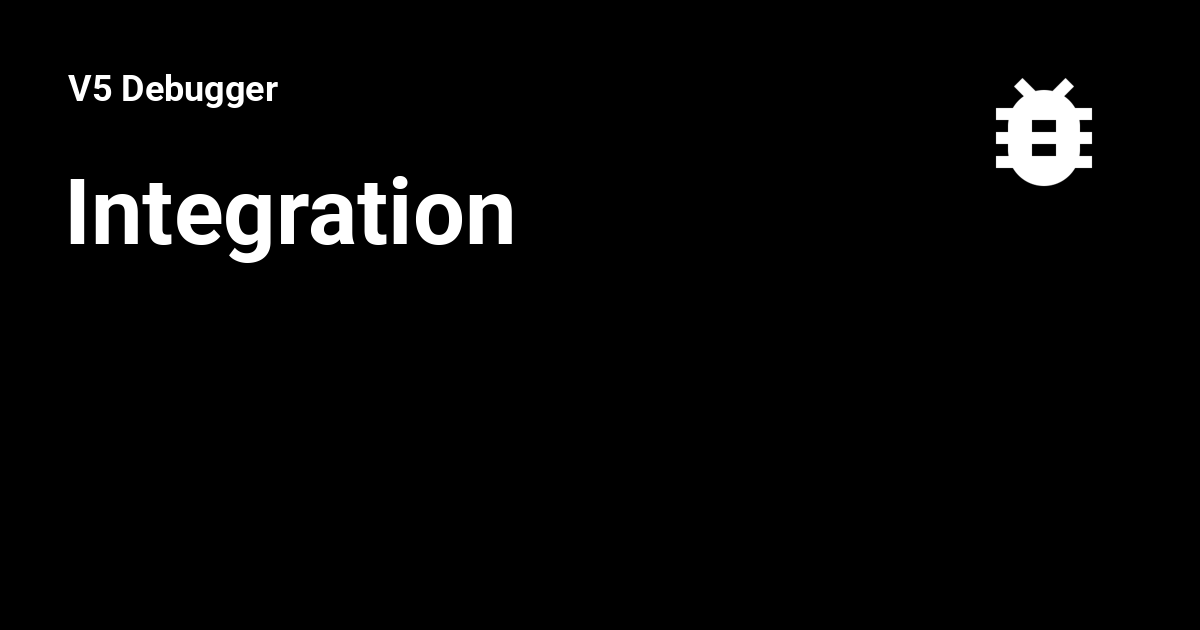
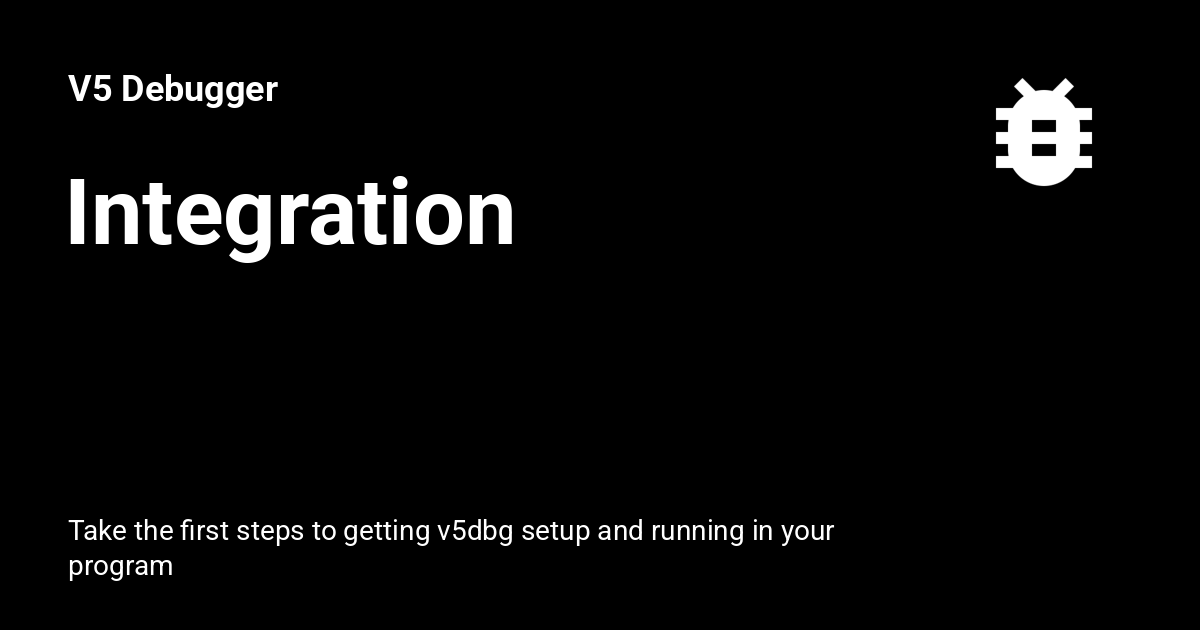
Deployed bf36ef0 with MkDocs version: 1.6.1

Changed region(s): [[0.0617, 0.8143, 0.7092, 0.9349]]

diff --git a/cpp/macros/debug/ntask/index.html b/cpp/macros/debug/ntask/index.html
@@ -6,6 +6,8 @@
       <meta charset="utf-8">
       <meta name="viewport" content="width=device-width,initial-scale=1">
       
+        <meta name="description" content="Documentation for the $ntask macro which is used to supervise the current task and allow for debugging functionality">
+      
       
       
         <link rel="canonical" href="https://v5dbg.beachmont.xyz/cpp/macros/debug/ntask/">
@@ -59,7 +61,7 @@
       
         <meta  property="og:title"  content="$ntask - V5 Debugger" >
       
-        <meta  property="og:description"  content="None" >
+        <meta  property="og:description"  content="Documentation for the $ntask macro which is used to supervise the current task and allow for debugging functionality" >
       
         <meta  property="og:image"  content="https://v5dbg.beachmont.xyz/assets/images/social/cpp/macros/debug/ntask.png" >
       
@@ -75,7 +77,7 @@
       
         <meta  name="twitter:title"  content="$ntask - V5 Debugger" >
       
-        <meta  name="twitter:description"  content="None" >
+        <meta  name="twitter:description"  content="Documentation for the $ntask macro which is used to supervise the current task and allow for debugging functionality" >
       
         <meta  name="twitter:image"  content="https://v5dbg.beachmont.xyz/assets/images/social/cpp/macros/debug/ntask.png" >
       

diff --git a/cpp/macros/debug/function/index.html b/cpp/macros/debug/function/index.html
@@ -6,6 +6,8 @@
       <meta charset="utf-8">
       <meta name="viewport" content="width=device-width,initial-scale=1">
       
+        <meta name="description" content="Documentation for the $function macro which is used to mark the entrance of functions">
+      
       
       
         <link rel="canonical" href="https://v5dbg.beachmont.xyz/cpp/macros/debug/function/">
@@ -59,7 +61,7 @@
       
         <meta  property="og:title"  content="$function - V5 Debugger" >
       
-        <meta  property="og:description"  content="None" >
+        <meta  property="og:description"  content="Documentation for the $function macro which is used to mark the entrance of functions" >
       
         <meta  property="og:image"  content="https://v5dbg.beachmont.xyz/assets/images/social/cpp/macros/debug/function.png" >
       
@@ -75,7 +77,7 @@
       
         <meta  name="twitter:title"  content="$function - V5 Debugger" >
       
-        <meta  name="twitter:description"  content="None" >
+        <meta  name="twitter:description"  content="Documentation for the $function macro which is used to mark the entrance of functions" >
       
         <meta  name="twitter:image"  content="https://v5dbg.beachmont.xyz/assets/images/social/cpp/macros/debug/function.png" >
       

diff --git a/getting_started/integration/index.html b/getting_started/integration/index.html
@@ -6,6 +6,8 @@
       <meta charset="utf-8">
       <meta name="viewport" content="width=device-width,initial-scale=1">
       
+        <meta name="description" content="Take the first steps to getting v5dbg setup and running in your program">
+      
       
       
         <link rel="canonical" href="https://v5dbg.beachmont.xyz/getting_started/integration/">
@@ -59,7 +61,7 @@
       
         <meta  property="og:title"  content="Integration - V5 Debugger" >
       
-        <meta  property="og:description"  content="None" >
+        <meta  property="og:description"  content="Take the first steps to getting v5dbg setup and running in your program" >
       
         <meta  property="og:image"  content="https://v5dbg.beachmont.xyz/assets/images/social/getting_started/integration.png" >
       
@@ -75,7 +77,7 @@
       
         <meta  name="twitter:title"  content="Integration - V5 Debugger" >
       
-        <meta  name="twitter:description"  content="None" >
+        <meta  name="twitter:description"  content="Take the first steps to getting v5dbg setup and running in your program" >
       
         <meta  name="twitter:image"  content="https://v5dbg.beachmont.xyz/assets/images/social/getting_started/integration.png" >
       

diff --git a/cpp/header_files/index.html b/cpp/header_files/index.html
@@ -6,6 +6,8 @@
       <meta charset="utf-8">
       <meta name="viewport" content="width=device-width,initial-scale=1">
       
+        <meta name="description" content="Reference for all of the header files in v5dbg and their usage">
+      
       
       
         <link rel="canonical" href="https://v5dbg.beachmont.xyz/cpp/header_files/">
@@ -59,7 +61,7 @@
       
         <meta  property="og:title"  content="Header files - V5 Debugger" >
       
-        <meta  property="og:description"  content="None" >
+        <meta  property="og:description"  content="Reference for all of the header files in v5dbg and their usage" >
       
         <meta  property="og:image"  content="https://v5dbg.beachmont.xyz/assets/images/social/cpp/header_files.png" >
       
@@ -75,7 +77,7 @@
       
         <meta  name="twitter:title"  content="Header files - V5 Debugger" >
       
-        <meta  name="twitter:description"  content="None" >
+        <meta  name="twitter:description"  content="Reference for all of the header files in v5dbg and their usage" >
       
         <meta  name="twitter:image"  content="https://v5dbg.beachmont.xyz/assets/images/social/cpp/header_files.png" >
       

diff --git a/protocol/v1/index.html b/protocol/v1/index.html
@@ -6,6 +6,8 @@
       <meta charset="utf-8">
       <meta name="viewport" content="width=device-width,initial-scale=1">
       
+        <meta name="description" content="Spec document for version 1 of the v5dbg debug server protocol">
+      
       
       
         <link rel="canonical" href="https://v5dbg.beachmont.xyz/protocol/v1/">
@@ -57,7 +59,7 @@
       
         <meta  property="og:title"  content="V1 (Current) - V5 Debugger" >
       
-        <meta  property="og:description"  content="None" >
+        <meta  property="og:description"  content="Spec document for version 1 of the v5dbg debug server protocol" >
       
         <meta  property="og:image"  content="https://v5dbg.beachmont.xyz/assets/images/social/protocol/v1.png" >
       
@@ -73,7 +75,7 @@
       
         <meta  name="twitter:title"  content="V1 (Current) - V5 Debugger" >
       
-        <meta  name="twitter:description"  content="None" >
+        <meta  name="twitter:description"  content="Spec document for version 1 of the v5dbg debug server protocol" >
       
         <meta  name="twitter:image"  content="https://v5dbg.beachmont.xyz/assets/images/social/protocol/v1.png" >
       

diff --git a/install/server/index.html b/install/server/index.html
@@ -6,6 +6,8 @@
       <meta charset="utf-8">
       <meta name="viewport" content="width=device-width,initial-scale=1">
       
+        <meta name="description" content="Install the v5dbg debug server into your PROs project">
+      
       
       
         <link rel="canonical" href="https://v5dbg.beachmont.xyz/install/server/">
@@ -59,7 +61,7 @@
       
         <meta  property="og:title"  content="Installation - V5 Debugger" >
       
-        <meta  property="og:description"  content="None" >
+        <meta  property="og:description"  content="Install the v5dbg debug server into your PROs project" >
       
         <meta  property="og:image"  content="https://v5dbg.beachmont.xyz/assets/images/social/install/server.png" >
       
@@ -75,7 +77,7 @@
       
         <meta  name="twitter:title"  content="Installation - V5 Debugger" >
       
-        <meta  name="twitter:description"  content="None" >
+        <meta  name="twitter:description"  content="Install the v5dbg debug server into your PROs project" >
       
         <meta  name="twitter:image"  content="https://v5dbg.beachmont.xyz/assets/images/social/install/server.png" >
       

diff --git a/index.html b/index.html
@@ -6,6 +6,8 @@
       <meta charset="utf-8">
       <meta name="viewport" content="width=device-width,initial-scale=1">
       
+        <meta name="description" content="The only true VEX debugger™">
+      
       
       
         <link rel="canonical" href="https://v5dbg.beachmont.xyz/">
@@ -57,7 +59,7 @@
       
         <meta  property="og:title"  content="V5 Debugger" >
       
-        <meta  property="og:description"  content="None" >
+        <meta  property="og:description"  content="The only true VEX debugger™" >
       
         <meta  property="og:image"  content="https://v5dbg.beachmont.xyz/assets/images/social/index.png" >
       
@@ -73,7 +75,7 @@
       
         <meta  name="twitter:title"  content="V5 Debugger" >
       
-        <meta  name="twitter:description"  content="None" >
+        <meta  name="twitter:description"  content="The only true VEX debugger™" >
       
         <meta  name="twitter:image"  content="https://v5dbg.beachmont.xyz/assets/images/social/index.png" >
       
